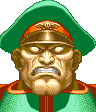
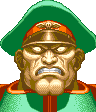
overlaytransparency fixed

diff --git a/PaletteSwap/Form1.cs b/PaletteSwap/Form1.cs
@@ -74,16 +74,51 @@ namespace PaletteSwap
                     pal_dest = Palette.PaletteFromMem(Palette.bis8Mem);
                     break;
             }
-            swap_stading_sprite(pal_dest);
+            swap_standing_sprite(pal_dest);
         }
 
-        private void swap_stading_sprite( Palette pal_dest)
+        private void swap_standing_sprite( Palette pal_dest)
         {
             Bitmap imgsource = masterStand;
             Palette pal_src = Palette.PaletteFromMem(Palette.bis1Mem);
             Bitmap swappedBmp = Palette.PaletteSwap(imgsource, pal_src, pal_dest);
             pictureBox1.Image = swappedBmp;
             display_magnified_sprite();
+
+            var p_src = new Bitmap(@"..\..\Resources\dicportrait1.png");
+ //           var poo = new Bitmap(p_src.Width, p_src.Height ,System.Drawing.Imaging.PixelFormat.Format32bppArgb);
+            var p_dest = new Bitmap(@"..\..\Resources\dicportrait0.png");
+   //         p_dest.PixelFormat = System.Drawing.Imaging.PixelFormat.Format32bppArgb;
+
+            //var p_src = new Bitmap(port1.Width, port1.Height);
+            //            var p_dest = new Bitmap(p_src.Width, p_src.Height);
+            /*for (int x = 0; x < p_dest.Width; x++)
+            {
+                for (int y = 0; y < p_dest.Height; y++)
+                {
+//                    p_src.SetPixel(x, y, Color.BurlyWood);
+                    p_dest.SetPixel(x, y, Color.CornflowerBlue);
+                }
+            }
+            for (int x = 0; x < p_dest.Width; x++)
+            {
+//                p_src.SetPixel(x, 25, Color.FromArgb(0,0,0,0));
+            }*/
+
+
+            var newimg = Palette.overlayTransparency(p_src, p_dest);
+
+            try
+            {
+                p_src.Save(@"..\..\Resources\src.png");
+                newimg.Save(@"..\..\Resources\dest.png");
+            }
+            catch (Exception)
+            {
+                MessageBox.Show("There was a problem saving the file." +
+                    "Check the file permissions.");
+            }
+            MessageBox.Show("saved");
         }
 
         private void load_palette()
@@ -190,14 +225,14 @@ namespace PaletteSwap
             textBox1.Text = Palette.ACTtoText(reducedline);
             string newACT = textBox1.Text;
             Palette pal_dest = Palette.PaletteFromACT(newACT);
-            swap_stading_sprite(pal_dest);
+            swap_standing_sprite(pal_dest);
         }
 
         private void loadACT_Click(object sender, EventArgs e)
         {
             string newACT = textBox1.Text;
             Palette pal_dest = Palette.PaletteFromACT(newACT);
-            swap_stading_sprite(pal_dest);
+            swap_standing_sprite(pal_dest);
         }
     }
 }

diff --git a/PaletteSwap/Palette.cs b/PaletteSwap/Palette.cs
@@ -45,14 +45,11 @@ namespace PaletteSwap
 
         public static Color ColorSwap(Color c, Palette p_src, Palette p_dest)
         {
-            int x = 0;
-            if (c.R != 0)
-                x++;
             for (int i = 0; i < p_src.colors.Length; i++){
                 if (c == p_src.colors[i])
                     return p_dest.colors[i];
             }
-            return c; // if color not found (maybe a zero value), just return that.
+            return c;
         }
 
         public static Palette PaletteFromACT(string s)
@@ -138,27 +135,37 @@ namespace PaletteSwap
             return s.ToString().Trim();
         }
 
-        public static void overlayTransparency(Bitmap src_img, Bitmap dest_img)
+        public static Bitmap overlayTransparency(Bitmap src_img, Bitmap dest_img)
         {
             // take source file, and for each transparent pixel (0,0,0,0) in it, make the corresponding pixel in dest file 
             // transparent as well
             // check files same size
             if (src_img.Width != dest_img.Width || src_img.Height != dest_img.Height)
             {
-                return;
+//                return;
             }
+
+            var retimg = new Bitmap(src_img.Width, src_img.Height, System.Drawing.Imaging.PixelFormat.Format32bppArgb);
 
             for (int x = 0; x < src_img.Width; x++)
             {
                 for (int y = 0; y < src_img.Height; y++)
                 {
                     Color gotColor = src_img.GetPixel(x, y);
-                    if (gotColor == Color.FromArgb(0, 0, 0, 0))
+
+                    if (gotColor.A == 0)
                     {
-                        dest_img.SetPixel(x, y, gotColor);
+                        retimg.SetPixel(x, y, Color.FromArgb(0,0,0,0));
+                    }
+                    else
+                    {
+                        retimg.SetPixel(x, y, dest_img.GetPixel(x, y));
                     }
                 }
             }
+
+            return retimg;
+
         }
     }
 }

diff --git a/PaletteSwapTest/PaletteSwapTest.cs b/PaletteSwapTest/PaletteSwapTest.cs
@@ -87,14 +87,15 @@ namespace PaletteSwapTestsNet
             Bitmap destbmp = new Bitmap(20, 1);
             for (int i = 0; i < 20; i++)
             {
-                srcbmp.SetPixel(i, 0, Color.FromArgb(255, 25, 3, 5));
-                destbmp.SetPixel(i, 0, Color.FromArgb(255, 25, 3, 5));
+                srcbmp.SetPixel(i, 0, Color.FromArgb(0, 25, 3, 5));
+                destbmp.SetPixel(i, 0, Color.FromArgb(0, 25, 3, 5));
             }
-            srcbmp.SetPixel(5, 0, Color.FromArgb(0, 0, 0, 0));
-            srcbmp.SetPixel(10, 0, Color.FromArgb(0, 0, 0, 0));
+            srcbmp.SetPixel(5, 0, Color.FromArgb(255, 0, 0, 0));
+            srcbmp.SetPixel(10, 0, Color.FromArgb(255, 0, 0, 0));
             Palette.overlayTransparency(srcbmp, destbmp);
-            Assert.AreEqual(Color.FromArgb(0, 0, 0, 0), destbmp.GetPixel(5,0));
-            Assert.AreEqual(Color.FromArgb(0, 0, 0, 0), destbmp.GetPixel(10, 0));
+            Assert.AreEqual(Color.FromArgb(255, 0, 0, 0), destbmp.GetPixel(5,0));
+            Assert.AreEqual(Color.FromArgb(255, 0, 0, 0), destbmp.GetPixel(10, 0));
+            Assert.AreEqual(Color.FromArgb(0, 25, 3, 5), destbmp.GetPixel(17, 0));
         }
     }
 }
